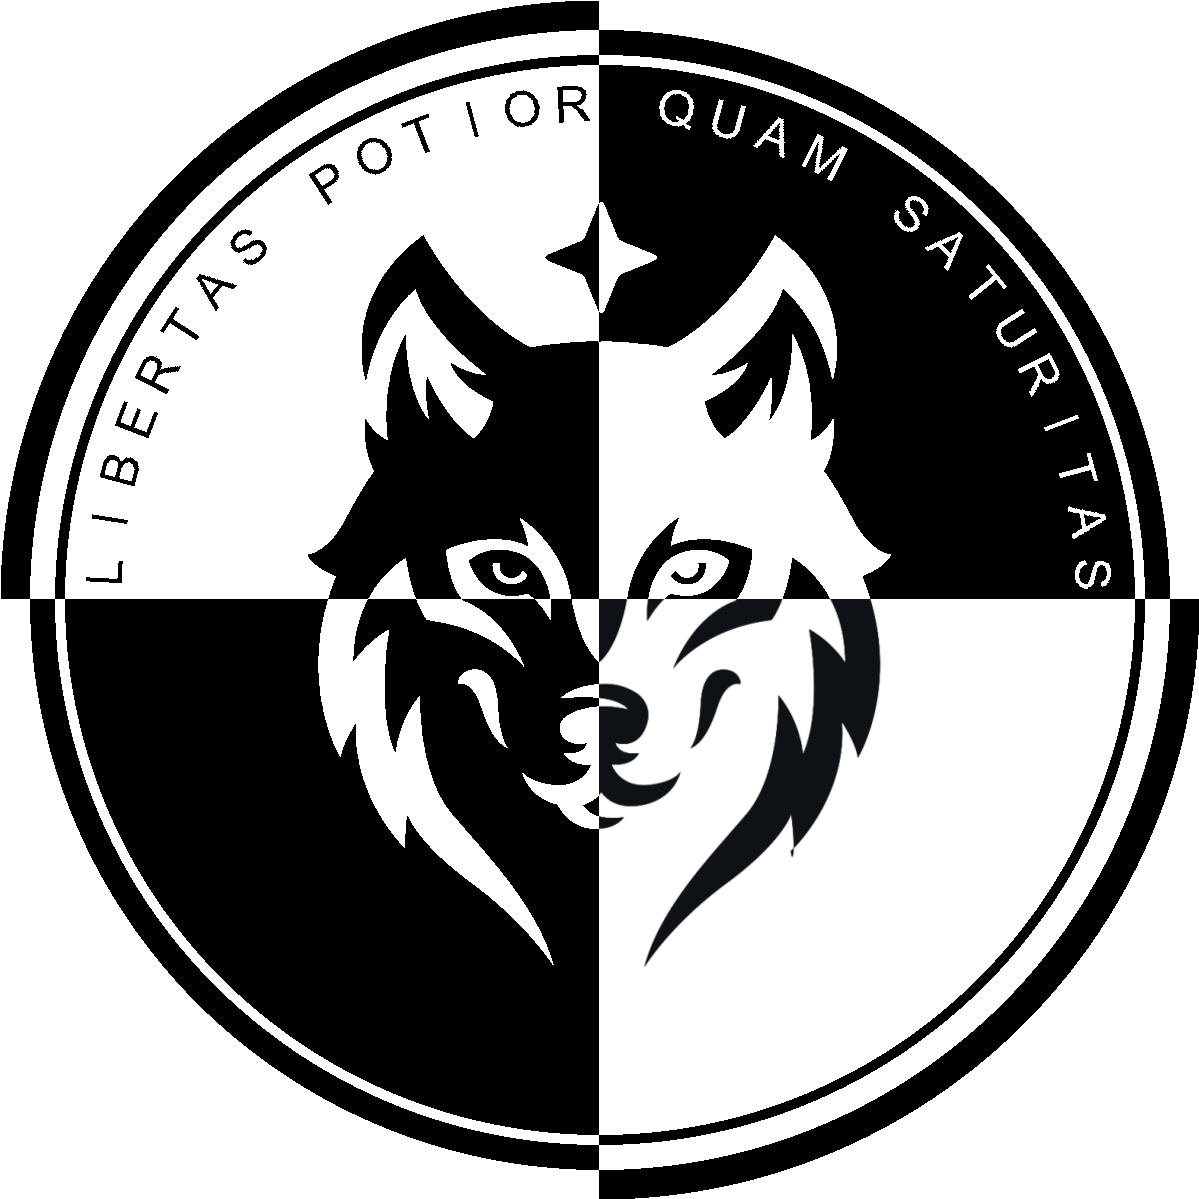
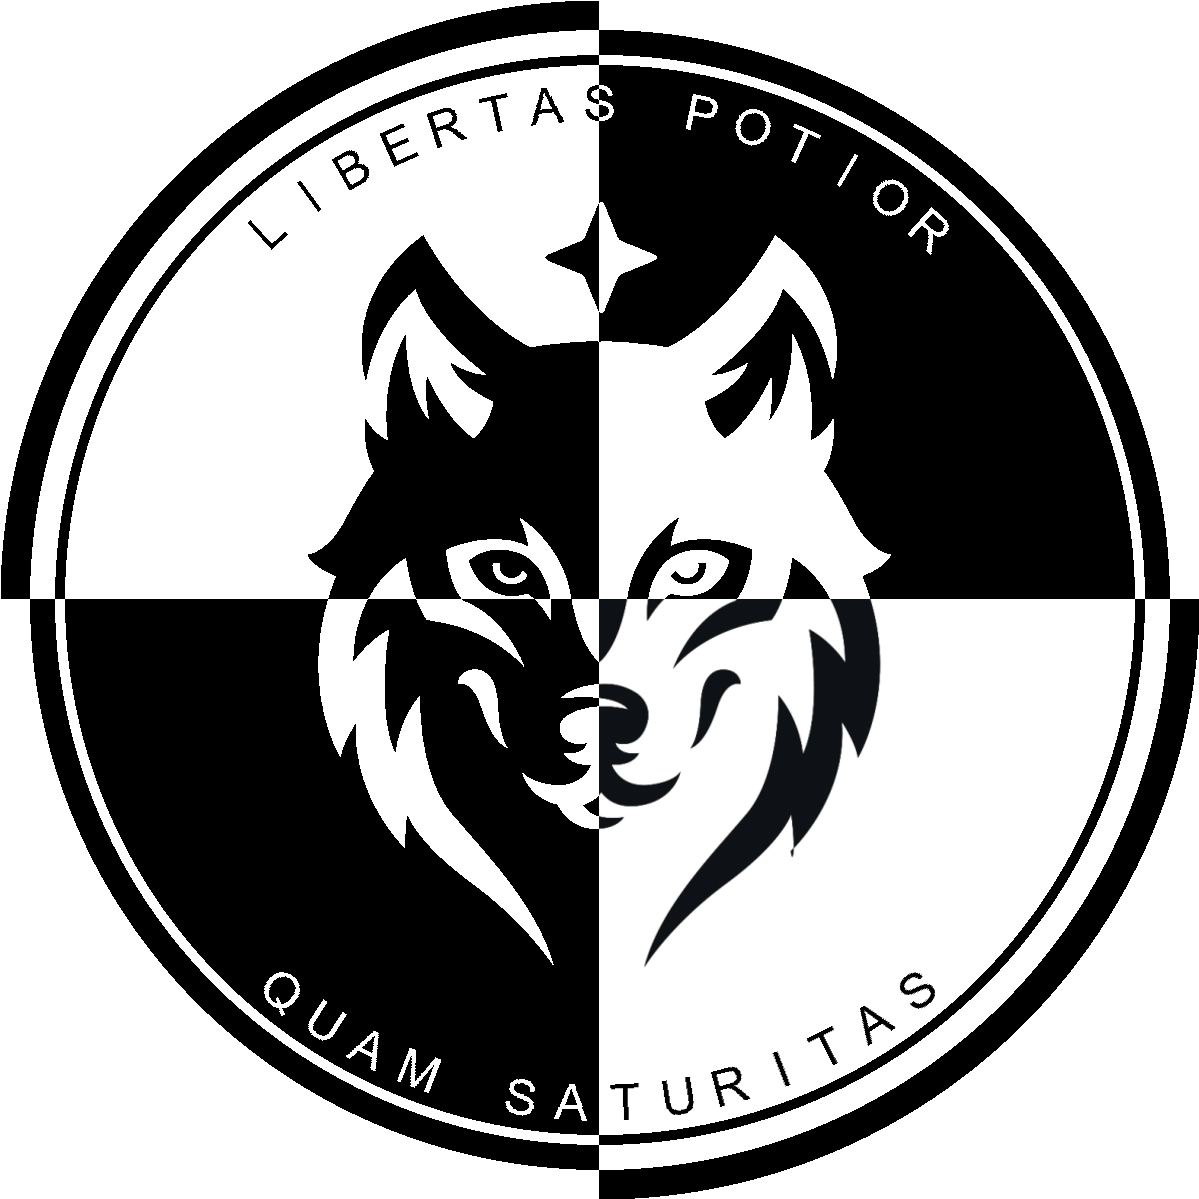
wip: lot of files with small difference to make it easier?

diff --git a/draw_text_on_circle_down.py b/draw_text_on_circle_down.py
@@ -1,0 +1,46 @@
+#!/usr/bin/env python3
+import sys
+import math
+from PIL import Image, ImageDraw, ImageFont, ImageOps
+from vector2D import Vector2D
+
+im = Image.open(sys.argv[1]) # Can be many different formats.
+draw = ImageDraw.Draw(im)
+pix = im.load()
+
+for x in range(0, im.size[0]):
+    for y in range(0, im.size[1]):
+        pass
+f =  ImageFont.truetype(sys.argv[4], int(sys.argv[5]))
+
+def get_text_dimensions(text_string, font):
+    # https://stackoverflow.com/a/46220683/9263761
+    ascent, descent = font.getmetrics()
+    text_width = font.getmask(text_string).getbbox()[2]
+    text_height = font.getmask(text_string).getbbox()[3] + descent
+    return (text_width, text_height)
+
+def draw_char(s, module, arg, reversed = False):
+    if s != " ":
+        arg = -arg
+        center = Vector2D(int(im.size[0]/2), int(im.size[0]/2))
+        pos = Vector2D(0, module)
+        pos = pos.setArg(arg * 0.0174533)
+        pos = pos + center
+        txt=Image.new('L', get_text_dimensions(s,f))
+        d = ImageDraw.Draw(txt)
+        d.text( (0, 0), s,  font=f, fill=255)
+        w=txt.rotate(-arg - 90 if not reversed else -arg + 90,  expand=1)
+        im.paste( ImageOps.colorize(w, (0,0,0), (0,0,0)), (int(pos.x-w.size[0]/2),int(pos.y-w.size[1]/2)),  w)
+def draw_text(s, module, arg, angle_step):
+    offset = 0
+
+    for c in s:
+        draw_char(c, module, arg - offset, True if angle_step < 0 else False)
+        offset = offset + angle_step
+
+def draw_text_centered(s, module, angle_step):
+    total_angle = (len(s)-1) * angle_step
+    draw_text(s, module, 90+total_angle/2 if angle_step>0 else total_angle/2 -90, angle_step)
+draw_text_centered( sys.argv[2].upper(), int(sys.argv[3]),-6)
+im.save(sys.argv[1])  # Save the modified pixels as .png
